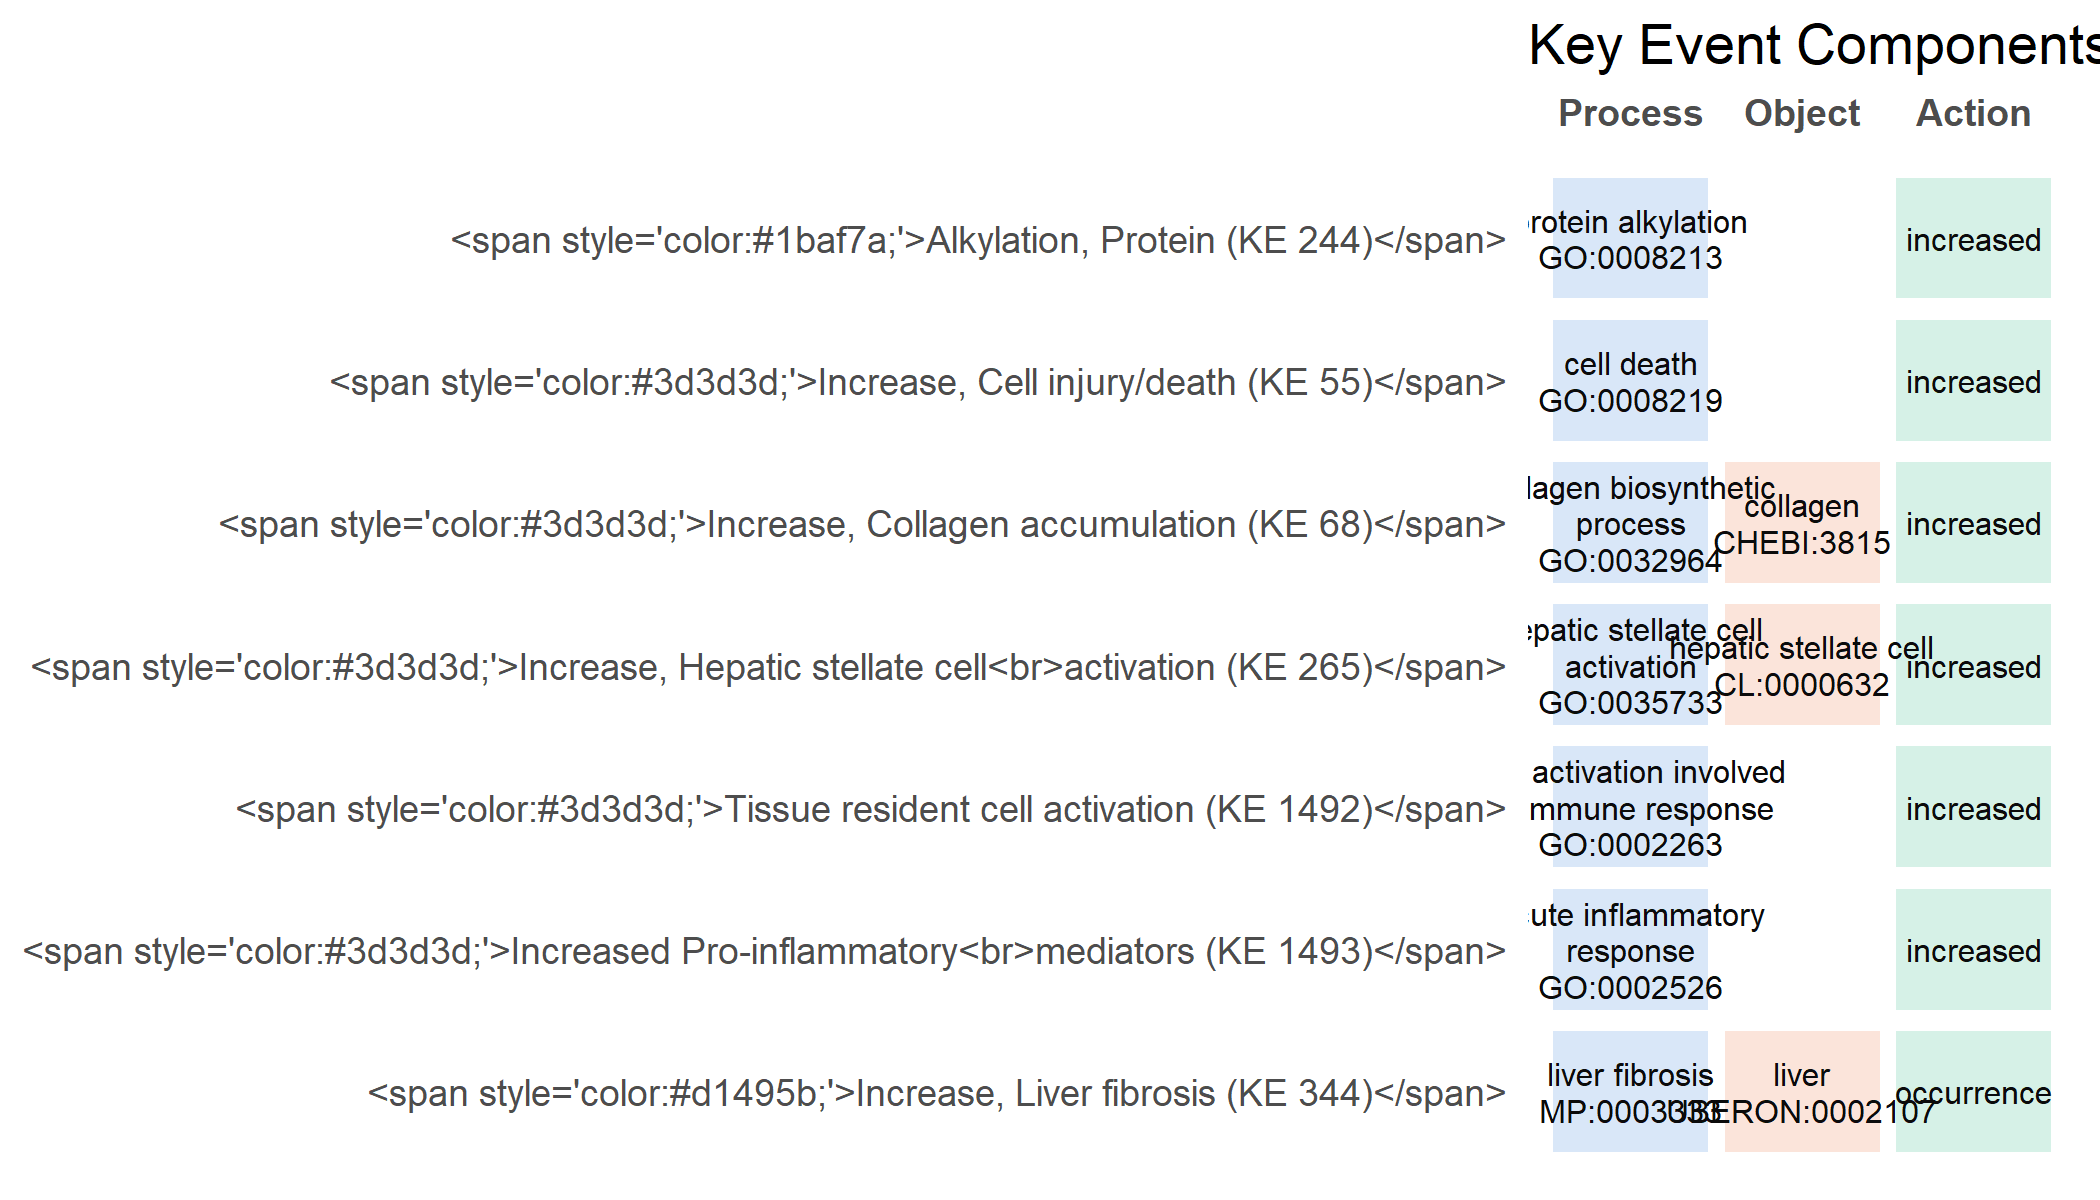
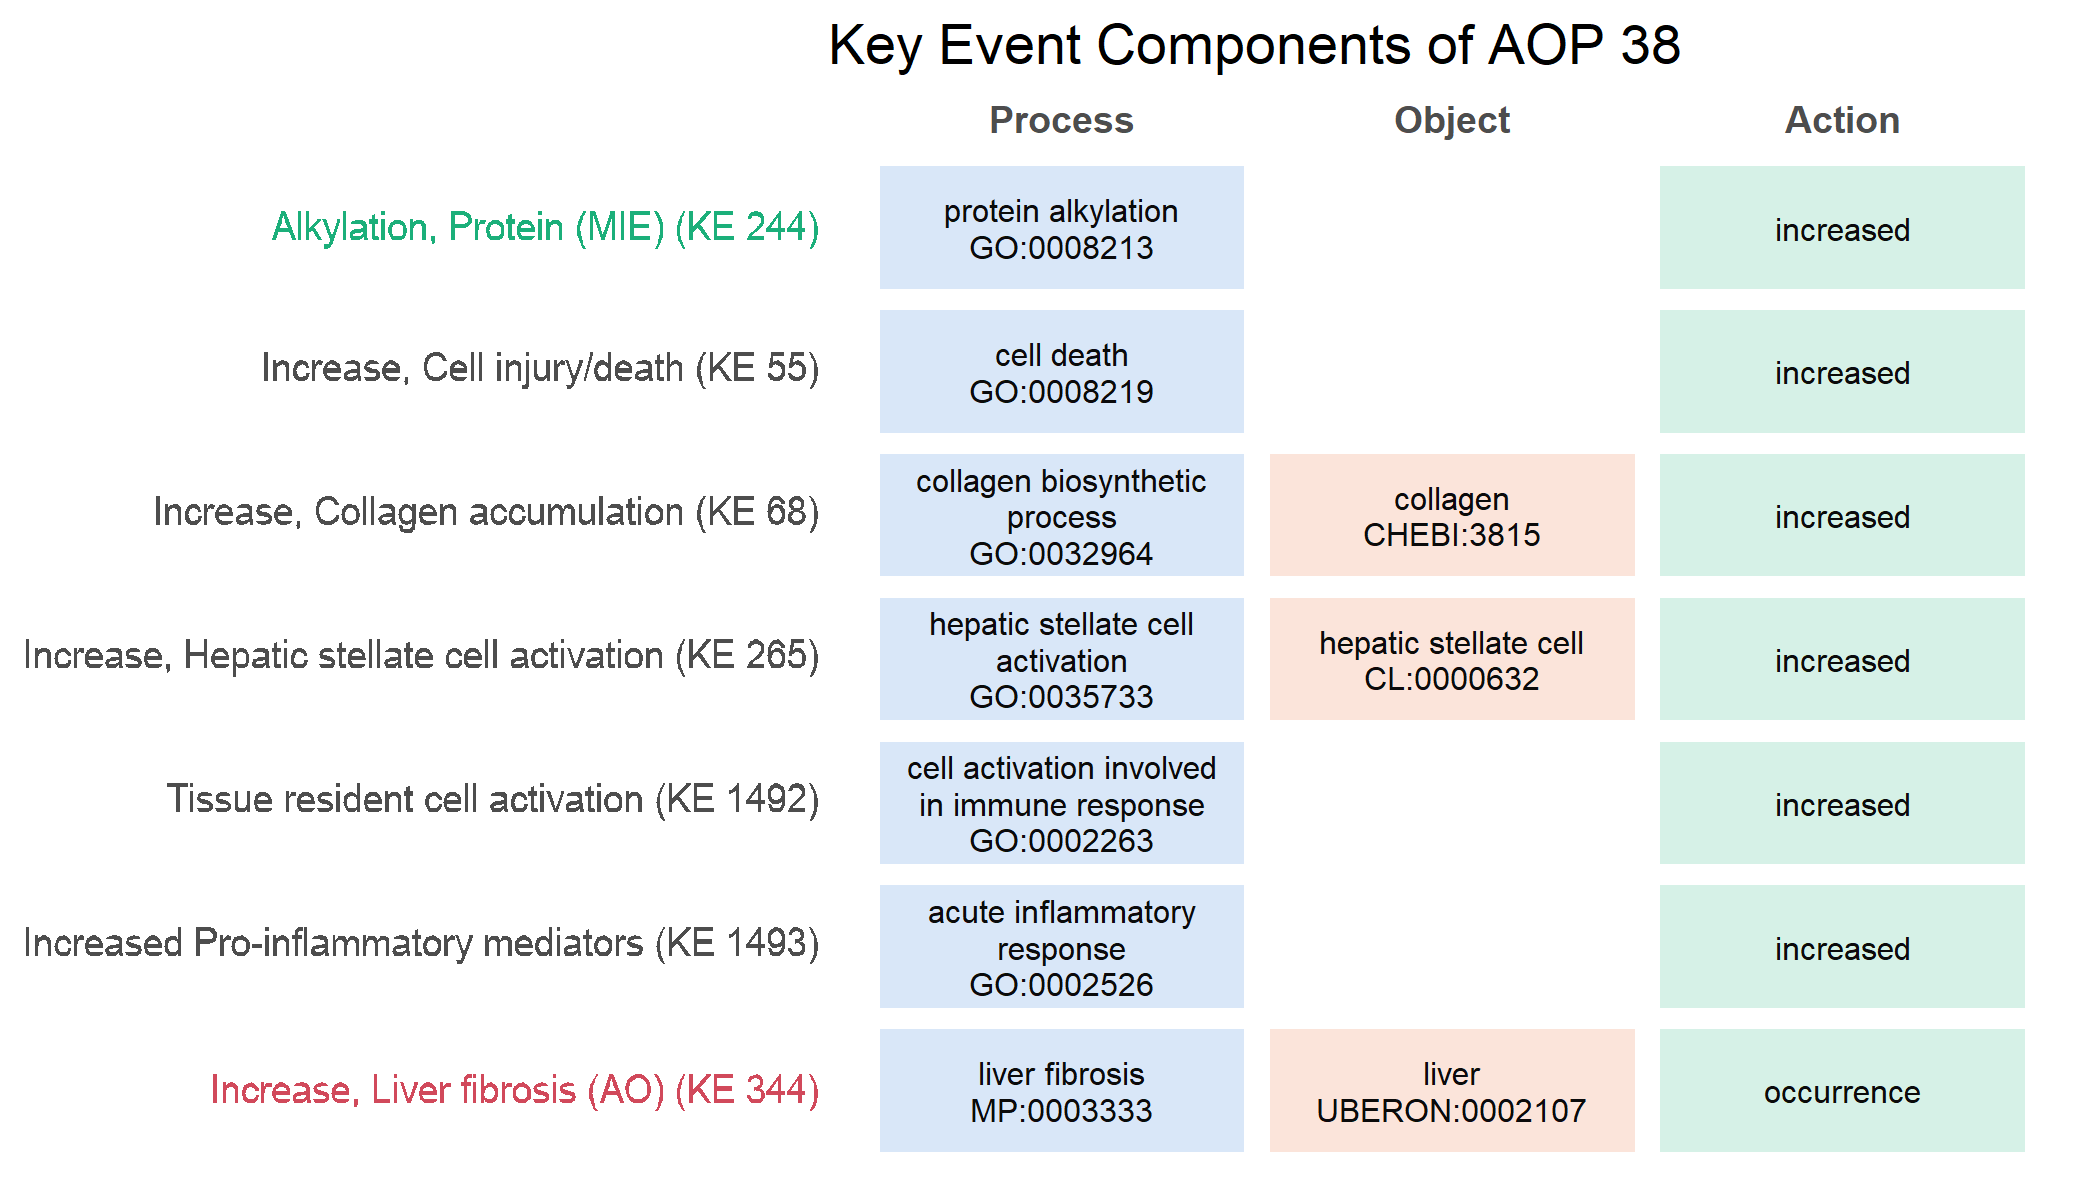
Fix role colours in both plots, add contributors

diff --git a/README.md b/README.md
@@ -79,9 +79,9 @@ table(genes$detected_by)
 ```
 
 Genes are linked to individual Key Events, so each Key Event can be
-treated as a candidate gene set. Key Event titles are printed in green
-for the molecular initiating event and in red for the adverse outcome,
-and Key Events without gene links are left out:
+treated as a candidate gene set. The molecular initiating event and the
+adverse outcome are marked in the titles, in green and red, and a Key
+Event without gene links is shown with an empty bar:
 
 ``` r
 aop_plot_genes(38)
